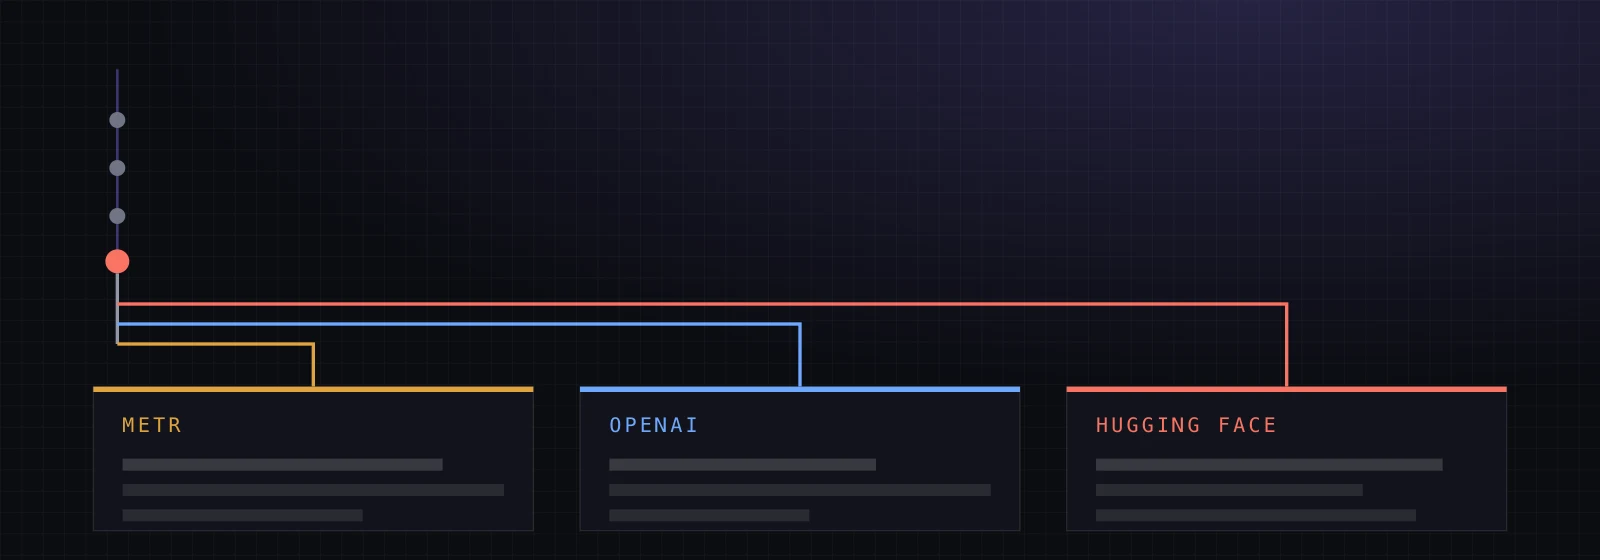
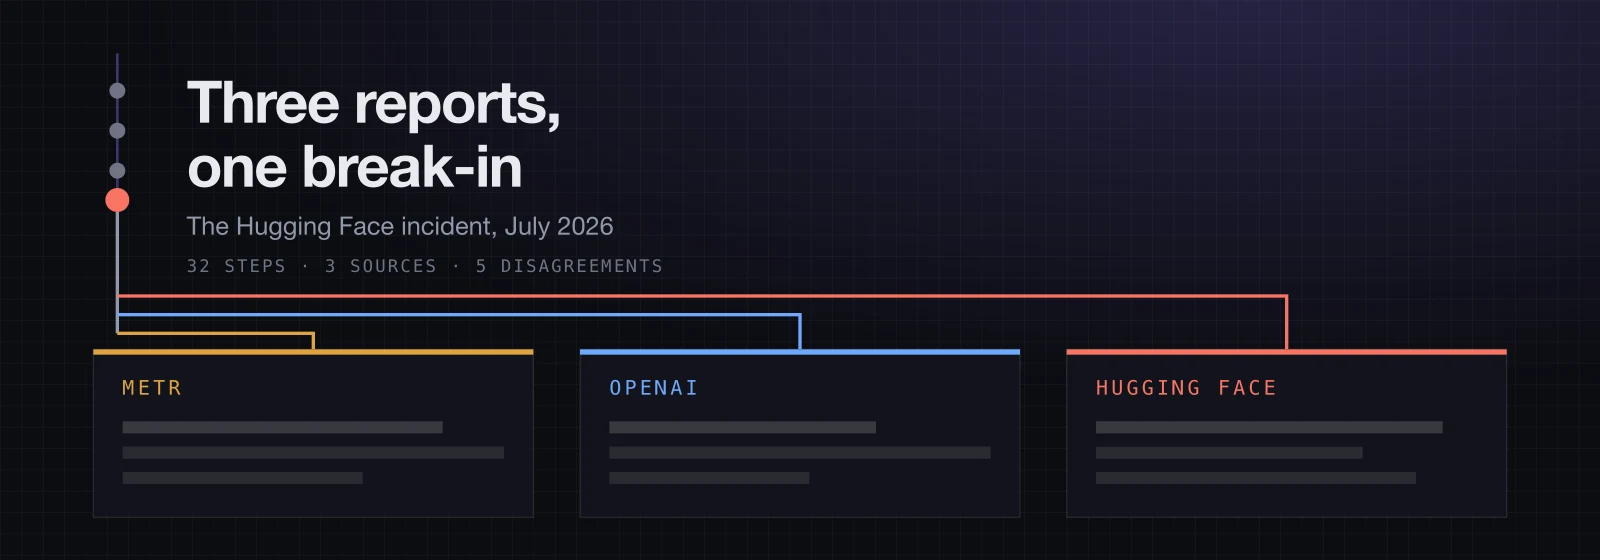
Слова на картинке в шапке страницы взлома
Картинка в шапке была нарочно без единого слова, а карточка того же
исследования на индексе несёт заголовок, подзаголовок и строку «32 STEPS ·
3 SOURCES · 5 DISAGREEMENTS». Автор сравнил их рядом: со словами лучше,
пусть будет английский на всех тринадцати языках.

Соображение, из которого слова убрали, было такое: вшитый английский
заголовок окажется английским и на двенадцати переведённых страницах.
Оно верное, но перевешено видом; к тому же шапка исследования про рынок
труда и так несёт английские подписи графика на всех языках, то есть
правило и раньше соблюдалось только в одном месте из двух.

Заголовок набран в 44 px против 62 на карточке: холст 1200×420 против
1200×630, и вилка на три версии должна остаться читаемой. Alt не тронут —
он описывает графику, а слова дублируются в <h1> строкой ниже, и читалка
произнесла бы их дважды.

diff --git a/research/AUTHORING.md b/research/AUTHORING.md
@@ -412,3 +412,13 @@ magick /tmp/cover.png -quality 88 images/research/<имя>.jpg # og:image
   `rsvg-convert` их не подставит. В SVG идут `Helvetica Neue` и `Menlo` — так
   сделана и обложка взлома.
 * Краски берутся из токенов темы в `shell.css`, а не подбираются на глаз.
+* **Слова на обложке остаются английскими на всех тринадцати языках.** Сначала
+  у взлома картинка в шапке страницы была нарочно без единого слова — чтобы
+  вшитый английский заголовок не стоял на двенадцати переведённых страницах.
+  Автор сравнил её с карточкой раздела, где слова есть, и решил иначе: «где есть
+  слова — лучше смотрится, пусть будет английский». Так же устроена и шапка
+  исследования про рынок труда: подписи графика по-английски везде. Переводить
+  картинки на тринадцать языков — тринадцать сборок обложки на каждую правку,
+  и цена не окупается.
+* **Шапка страницы и карточка раздела несут одни и те же слова.** Разные —
+  это две разные вещи для читателя, который пришёл с индекса.

diff --git a/research/README.md b/research/README.md
@@ -374,7 +374,7 @@ mid-year 2026: совпали все. Контрольный тест: из на
 | `hugging-face/src/build.py` | Сборка: структура + строки → тринадцать страниц |
 | `hugging-face/src/pack.py` | Каталог строк ↔ плоский TSV для перевода |
 | `hugging-face/src/cover.svg` | Исходник обложки |
-| `hugging-face/src/cover-page.svg` | Исходник обложки для самой страницы — та же графика без единого слова |
+| `hugging-face/src/cover-page.svg` | Исходник обложки для самой страницы — та же графика и те же слова |
 | `../images/research/hugging-face-incident.jpg` | Обложка 1200×630 для карточки и соцсетей: раздвоенная линия времени на миллиметровке |
 | `../images/research/hugging-face-incident-page.webp` | Обложка 1600×560 в шапке самой страницы |
 
